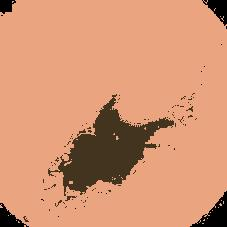
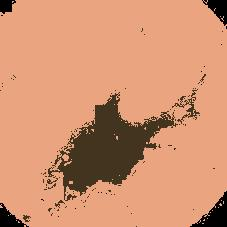
updating images SVM

diff --git a/SVM_classification.py b/SVM_classification.py
@@ -6,42 +6,42 @@ from sklearn.cluster import KMeans
 from sklearn.svm import SVC
 
 plt.close('all')
-# #1----------------------------------------------------------------------------------------------------------
-# classes = {'wall': 0, 'polyp': 1, 'dirt': 2, 'dark': 3, 'hole': 4}
-# n_classes = len(classes)
-# palette = np.uint8([[234, 164, 128], [234, 112, 78], [234, 207, 79], [0, 0, 0], [67,52,31]])
-#
-# img = io.imread('images/1.jpg')
-# img2 = img
-# rows, cols, bands = img.shape
-#
-#
-# X = img.reshape(rows*cols, bands)
-# kmeans = KMeans(n_clusters=n_classes, random_state=0).fit(X)
-#
-# supervised = n_classes*np.ones(shape=(rows, cols), dtype=np.int)
-# supervised[140:162, 29:50] = classes['polyp']
-# supervised[20:35, 170:185] = classes['wall']
-# #supervised[0:0, 0:0] = classes['dirt']
-# supervised[0:10, 0:10] = classes['dark']
-# supervised[165:180, 80:100] = classes['hole']
-#
-# y = supervised.ravel()
-# train = np.flatnonzero(supervised < n_classes)
-# test = np.flatnonzero(supervised == n_classes)
-#
-# clf = SVC()
-# clf.fit(X[train], y[train])
-# y[test] = clf.predict(X[test])
-# supervised = y.reshape(rows, cols)
-# #io.imshow(palette[supervised])
-# plt.imshow(img2)
-# plt.show()
-# plt.imshow(palette[supervised], cmap=plt.cm.binary)
-# plt.show()
-#
-# supervised_1 = supervised
-# imageio.imwrite('./images/1_SVM.jpg',palette[supervised])
+#1----------------------------------------------------------------------------------------------------------
+classes = {'wall': 0, 'polyp': 1, 'dirt': 2, 'dark': 3, 'hole': 4}
+n_classes = len(classes)
+palette = np.uint8([[234, 164, 128], [234, 112, 78], [234, 207, 79], [0, 0, 0], [67,52,31]])
+
+img = io.imread('images/1.jpg')
+img2 = img
+rows, cols, bands = img.shape
+
+
+X = img.reshape(rows*cols, bands)
+kmeans = KMeans(n_clusters=n_classes, random_state=0).fit(X)
+
+supervised = n_classes*np.ones(shape=(rows, cols), dtype=np.int)
+supervised[140:170, 22:50] = classes['polyp']
+supervised[20:95, 0:120] = classes['wall']
+#supervised[0:0, 0:0] = classes['dirt']
+supervised[0:10, 0:10] = classes['dark']
+supervised[165:195, 80:150] = classes['hole']
+
+y = supervised.ravel()
+train = np.flatnonzero(supervised < n_classes)
+test = np.flatnonzero(supervised == n_classes)
+
+clf = SVC()
+clf.fit(X[train], y[train])
+y[test] = clf.predict(X[test])
+supervised = y.reshape(rows, cols)
+#io.imshow(palette[supervised])
+plt.imshow(img2)
+plt.show()
+plt.imshow(palette[supervised], cmap=plt.cm.binary)
+plt.show()
+
+supervised_1 = supervised
+imageio.imwrite('./images/1_SVM.jpg',palette[supervised])
 # #2----------------------------------------------------------------------------------------------------------
 # classes = {'wall': 0, 'polyp': 1, 'dirt': 2, 'dark': 3, 'hole': 4}
 # n_classes = len(classes)
@@ -78,7 +78,7 @@ plt.close('all')
 #
 # supervised_2 = supervised
 # imageio.imwrite('./images/2_SVM.jpg',palette[supervised])
-#3----------------------------------------------------------------------------------------------------------
+# #3----------------------------------------------------------------------------------------------------------
 # classes = {'wall': 0, 'polyp': 1, 'dirt': 2, 'dark': 3, 'hole': 4}
 # n_classes = len(classes)
 # palette = np.uint8([[234, 164, 128], [234, 112, 78], [234, 207, 79], [0, 0, 0], [67,52,31]])
@@ -114,7 +114,7 @@ plt.close('all')
 #
 # supervised_3 = supervised
 # imageio.imwrite('./images/3_SVM.jpg',palette[supervised])
-#4------------------------------------------------------------------------------------------------
+# #4------------------------------------------------------------------------------------------------
 # classes = {'wall': 0, 'polyp': 1, 'dirt': 2, 'dark': 3, 'hole': 4}
 # n_classes = len(classes)
 # palette = np.uint8([[234, 164, 128], [234, 112, 78], [234, 207, 79], [0, 0, 0], [67,52,31]])
@@ -1610,39 +1610,226 @@ plt.close('all')
 # supervised_44 = supervised
 # imageio.imwrite('./images/44_SVM.jpg',palette[supervised])
 # #45---------------------------------------------------------------------------------------------
-classes = {'wall': 0, 'polyp': 1, 'dirt': 2, 'dark': 3, 'hole': 4}
-n_classes = len(classes)
-palette = np.uint8([[234, 164, 128], [234, 112, 78], [234, 207, 79], [0, 0, 0], [67,52,31]])
-
-img = io.imread('images/45.jpg')
-img2 = img
-rows, cols, bands = img.shape
-
-
-X = img.reshape(rows*cols, bands)
-kmeans = KMeans(n_clusters=n_classes, random_state=0).fit(X)
-
-supervised = n_classes*np.ones(shape=(rows, cols), dtype=np.int)
-supervised[140:160, 110:130] = classes['polyp']
-supervised[50:140, 0:75] = classes['wall']
-#supervised[90:115, 85:115] = classes['dirt']
-#supervised[25:80, 30:190] = classes['hole']
-supervised[0:12, 0:12] = classes['dark']
-
-y = supervised.ravel()
-train = np.flatnonzero(supervised < n_classes)
-test = np.flatnonzero(supervised == n_classes)
-
-clf = SVC()
-clf.fit(X[train], y[train])
-y[test] = clf.predict(X[test])
-supervised = y.reshape(rows, cols)
-#io.imshow(palette[supervised])
-plt.imshow(img2)
-plt.show()
-plt.imshow(palette[supervised], cmap=plt.cm.binary)
-plt.show()                                                                                         
-
-supervised_45 = supervised
-imageio.imwrite('./images/45_SVM.jpg',palette[supervised])
-#46---------------------------------------------------------------------------------------------
+# classes = {'wall': 0, 'polyp': 1, 'dirt': 2, 'dark': 3, 'hole': 4}
+# n_classes = len(classes)
+# palette = np.uint8([[234, 164, 128], [234, 112, 78], [234, 207, 79], [0, 0, 0], [67,52,31]])
+#
+# img = io.imread('images/45.jpg')
+# img2 = img
+# rows, cols, bands = img.shape
+#
+#
+# X = img.reshape(rows*cols, bands)
+# kmeans = KMeans(n_clusters=n_classes, random_state=0).fit(X)
+#
+# supervised = n_classes*np.ones(shape=(rows, cols), dtype=np.int)
+# supervised[140:190, 110:170] = classes['polyp']
+# supervised[50:175, 0:75] = classes['wall']
+# supervised[218:227, 50:120] = classes['wall']
+# supervised[80:115, 165:190] = classes['wall']
+# #supervised[90:115, 85:115] = classes['dirt']
+# #supervised[25:80, 30:190] = classes['hole']
+# supervised[0:12, 0:12] = classes['dark']
+#
+# y = supervised.ravel()
+# train = np.flatnonzero(supervised < n_classes)
+# test = np.flatnonzero(supervised == n_classes)
+#
+# clf = SVC()
+# clf.fit(X[train], y[train])
+# y[test] = clf.predict(X[test])
+# supervised = y.reshape(rows, cols)
+# #io.imshow(palette[supervised])
+# plt.imshow(img2)
+# plt.show()
+# plt.imshow(palette[supervised], cmap=plt.cm.binary)
+# plt.show()
+#
+# supervised_45 = supervised
+# imageio.imwrite('./images/45_SVM.jpg',palette[supervised])
+# #46---------------------------------------------------------------------------------------------
+# classes = {'wall': 0, 'polyp': 1, 'dirt': 2, 'dark': 3, 'hole': 4}
+# n_classes = len(classes)
+# palette = np.uint8([[234, 164, 128], [234, 112, 78], [234, 207, 79], [0, 0, 0], [67,52,31]])
+#
+# img = io.imread('images/46.jpg')
+# img2 = img
+# rows, cols, bands = img.shape
+#
+#
+# X = img.reshape(rows*cols, bands)
+# kmeans = KMeans(n_clusters=n_classes, random_state=0).fit(X)
+#
+# supervised = n_classes*np.ones(shape=(rows, cols), dtype=np.int)
+# supervised[150:190, 65:110] = classes['polyp']
+# supervised[140:190, 145:225] = classes['wall']
+# supervised[115:140, 110:130] = classes['dirt']
+# supervised[100:125, 55:65] = classes['dirt']
+# supervised[25:50, 35:150] = classes['hole']
+# supervised[0:12, 0:12] = classes['dark']
+#
+# y = supervised.ravel()
+# train = np.flatnonzero(supervised < n_classes)
+# test = np.flatnonzero(supervised == n_classes)
+#
+# clf = SVC()
+# clf.fit(X[train], y[train])
+# y[test] = clf.predict(X[test])
+# supervised = y.reshape(rows, cols)
+# #io.imshow(palette[supervised])
+# plt.imshow(img2)
+# plt.show()
+# plt.imshow(palette[supervised], cmap=plt.cm.binary)
+# plt.show()
+#
+# supervised_46 = supervised
+# imageio.imwrite('./images/46_SVM.jpg',palette[supervised])
+# #47---------------------------------------------------------------------------------------------
+# classes = {'wall': 0, 'polyp': 1, 'dirt': 2, 'dark': 3, 'hole': 4}
+# n_classes = len(classes)
+# palette = np.uint8([[234, 164, 128], [234, 112, 78], [234, 207, 79], [0, 0, 0], [67,52,31]])
+#
+# img = io.imread('images/47.jpg')
+# img2 = img
+# rows, cols, bands = img.shape
+#
+#
+# X = img.reshape(rows*cols, bands)
+# kmeans = KMeans(n_clusters=n_classes, random_state=0).fit(X)
+#
+# supervised = n_classes*np.ones(shape=(rows, cols), dtype=np.int)
+# supervised[160:190, 96:130] = classes['polyp']
+# supervised[5:120, 100:190] = classes['wall']
+# supervised[0:20, 55:100] = classes['wall']
+# supervised[90:160, 180:225] = classes['wall']
+# supervised[100:160, 0:60] = classes['dirt']
+# #supervised[25:50, 35:150] = classes['hole']
+# supervised[0:12, 0:12] = classes['dark']
+#
+# y = supervised.ravel()
+# train = np.flatnonzero(supervised < n_classes)
+# test = np.flatnonzero(supervised == n_classes)
+#
+# clf = SVC()
+# clf.fit(X[train], y[train])
+# y[test] = clf.predict(X[test])
+# supervised = y.reshape(rows, cols)
+# #io.imshow(palette[supervised])
+# plt.imshow(img2)
+# plt.show()
+# plt.imshow(palette[supervised], cmap=plt.cm.binary)
+# plt.show()
+#
+# supervised_47 = supervised
+# imageio.imwrite('./images/47_SVM.jpg',palette[supervised])
+# #48---------------------------------------------------------------------------------------------
+# classes = {'wall': 0, 'polyp': 1, 'dirt': 2, 'dark': 3, 'hole': 4}
+# n_classes = len(classes)
+# palette = np.uint8([[234, 164, 128], [234, 112, 78], [234, 207, 79], [0, 0, 0], [67,52,31]])
+#
+# img = io.imread('images/48.jpg')
+# img2 = img
+# rows, cols, bands = img.shape
+#
+#
+# X = img.reshape(rows*cols, bands)
+# kmeans = KMeans(n_clusters=n_classes, random_state=0).fit(X)
+#
+# supervised = n_classes*np.ones(shape=(rows, cols), dtype=np.int)
+# supervised[205:227, 110:135] = classes['polyp']
+# supervised[0:150, 100:200] = classes['wall']
+# supervised[150:190, 140:210] = classes['wall']
+# supervised[45:140, 0:45] = classes['dirt']
+# #supervised[25:50, 35:150] = classes['hole']
+# supervised[0:12, 0:12] = classes['dark']
+#
+# y = supervised.ravel()
+# train = np.flatnonzero(supervised < n_classes)
+# test = np.flatnonzero(supervised == n_classes)
+#
+# clf = SVC()
+# clf.fit(X[train], y[train])
+# y[test] = clf.predict(X[test])
+# supervised = y.reshape(rows, cols)
+# #io.imshow(palette[supervised])
+# plt.imshow(img2)
+# plt.show()
+# plt.imshow(palette[supervised], cmap=plt.cm.binary)
+# plt.show()
+#
+# supervised_48 = supervised
+# imageio.imwrite('./images/48_SVM.jpg',palette[supervised])
+# #49---------------------------------------------------------------------------------------------
+# classes = {'wall': 0, 'polyp': 1, 'dirt': 2, 'dark': 3, 'hole': 4}
+# n_classes = len(classes)
+# palette = np.uint8([[234, 164, 128], [234, 112, 78], [234, 207, 79], [0, 0, 0], [67,52,31]])
+#
+# img = io.imread('images/49.jpg')
+# img2 = img
+# rows, cols, bands = img.shape
+#
+#
+# X = img.reshape(rows*cols, bands)
+# kmeans = KMeans(n_clusters=n_classes, random_state=0).fit(X)
+#
+# supervised = n_classes*np.ones(shape=(rows, cols), dtype=np.int)
+# supervised[90:110, 130:160] = classes['polyp']
+# supervised[140:200, 100:175] = classes['wall']
+# supervised[95:115, 77:95] = classes['dirt']
+# #supervised[25:50, 35:150] = classes['hole']
+# supervised[0:12, 0:12] = classes['dark']
+#
+# y = supervised.ravel()
+# train = np.flatnonzero(supervised < n_classes)
+# test = np.flatnonzero(supervised == n_classes)
+#
+# clf = SVC()
+# clf.fit(X[train], y[train])
+# y[test] = clf.predict(X[test])
+# supervised = y.reshape(rows, cols)
+# #io.imshow(palette[supervised])
+# plt.imshow(img2)
+# plt.show()
+# plt.imshow(palette[supervised], cmap=plt.cm.binary)
+# plt.show()
+#
+# supervised_49 = supervised
+# imageio.imwrite('./images/49_SVM.jpg',palette[supervised])
+# #50---------------------------------------------------------------------------------------------
+# classes = {'wall': 0, 'polyp': 1, 'dirt': 2, 'dark': 3, 'hole': 4}
+# n_classes = len(classes)
+# palette = np.uint8([[234, 164, 128], [234, 112, 78], [234, 207, 79], [0, 0, 0], [67,52,31]])
+#
+# img = io.imread('images/50.jpg')
+# img2 = img
+# rows, cols, bands = img.shape
+#
+#
+# X = img.reshape(rows*cols, bands)
+# kmeans = KMeans(n_clusters=n_classes, random_state=0).fit(X)
+#
+# supervised = n_classes*np.ones(shape=(rows, cols), dtype=np.int)
+# supervised[165:180, 40:70] = classes['polyp']
+# supervised[30:100, 0:120] = classes['wall']
+# #supervised[95:115, 77:95] = classes['dirt']
+# supervised[145:195, 80:125] = classes['hole']
+# supervised[10:75, 165:190] = classes['hole']
+# supervised[125:140, 140:150] = classes['hole']
+# supervised[0:12, 0:12] = classes['dark']
+#
+# y = supervised.ravel()
+# train = np.flatnonzero(supervised < n_classes)
+# test = np.flatnonzero(supervised == n_classes)
+#
+# clf = SVC()
+# clf.fit(X[train], y[train])
+# y[test] = clf.predict(X[test])
+# supervised = y.reshape(rows, cols)
+# #io.imshow(palette[supervised])
+# plt.imshow(img2)
+# plt.show()
+# plt.imshow(palette[supervised], cmap=plt.cm.binary)
+# plt.show()
+#
+# supervised_50 = supervised
+# imageio.imwrite('./images/50_SVM.jpg',palette[supervised])
